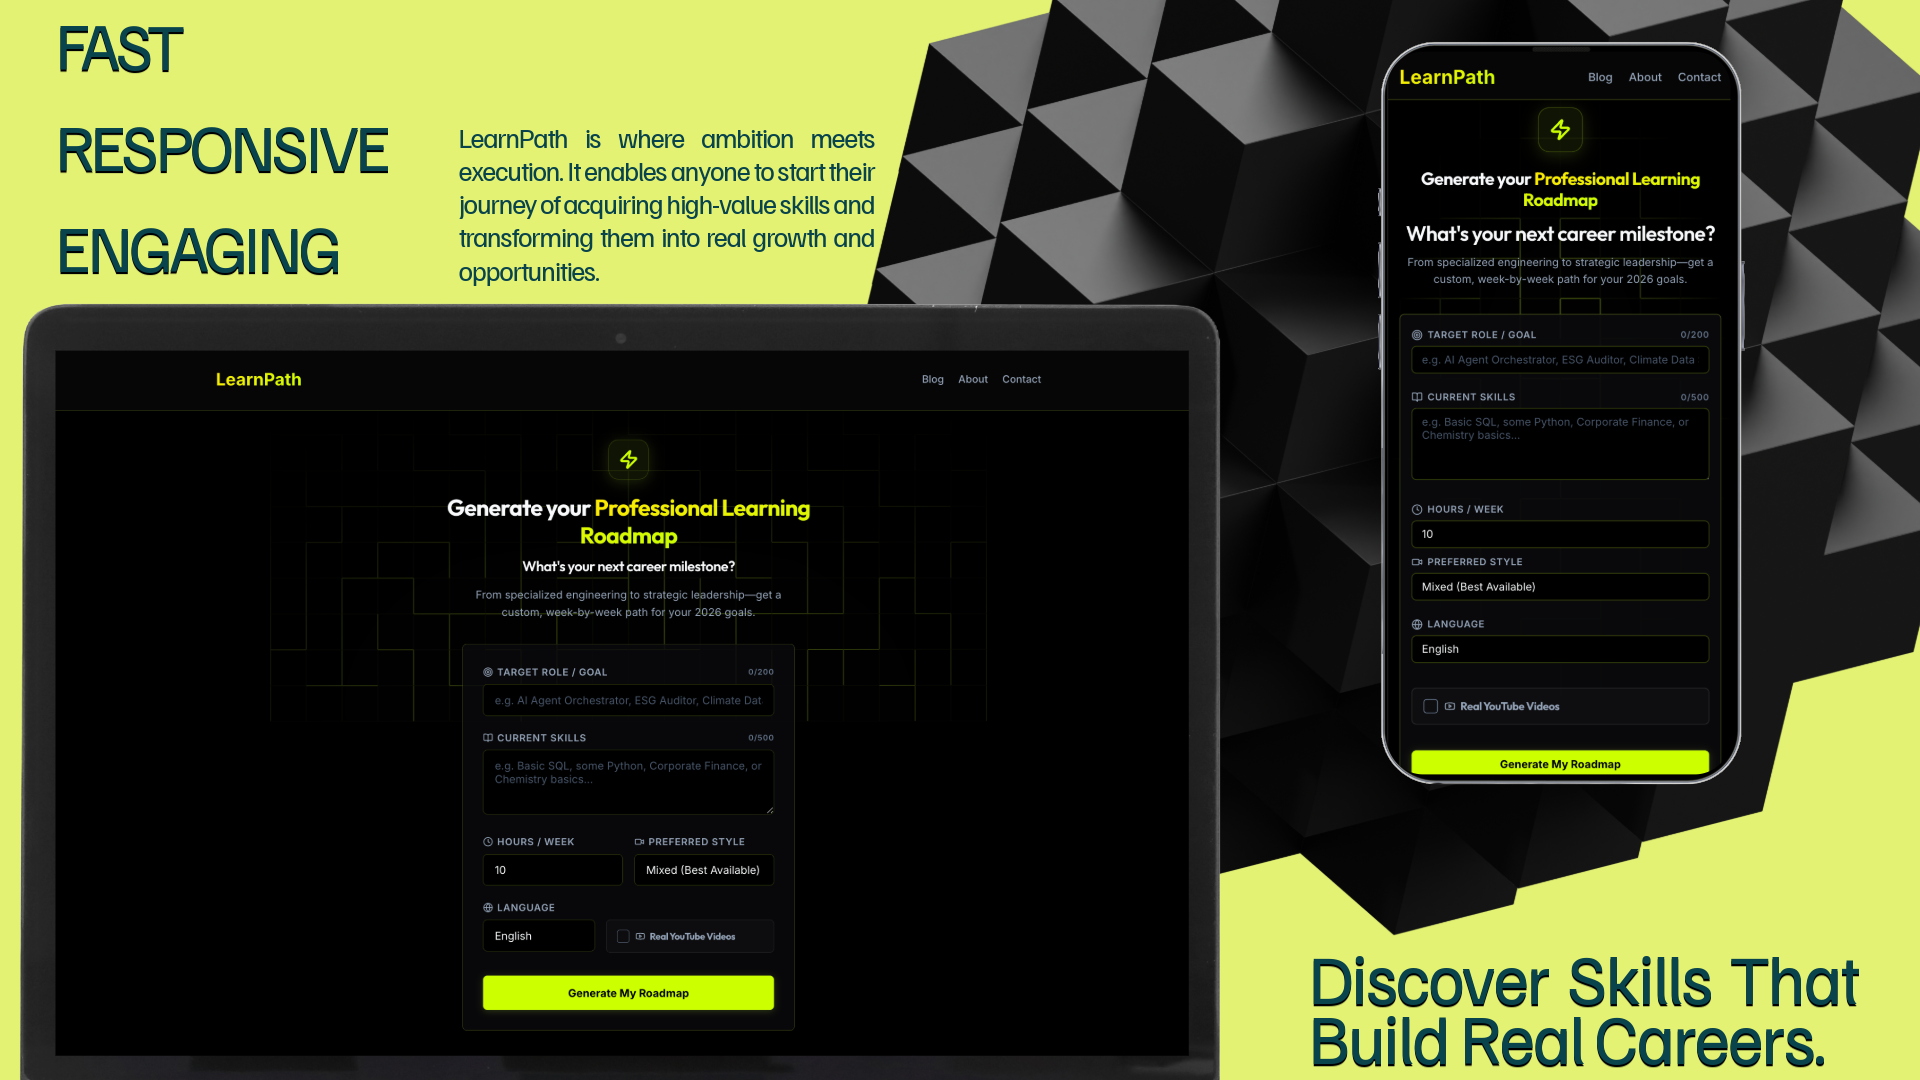
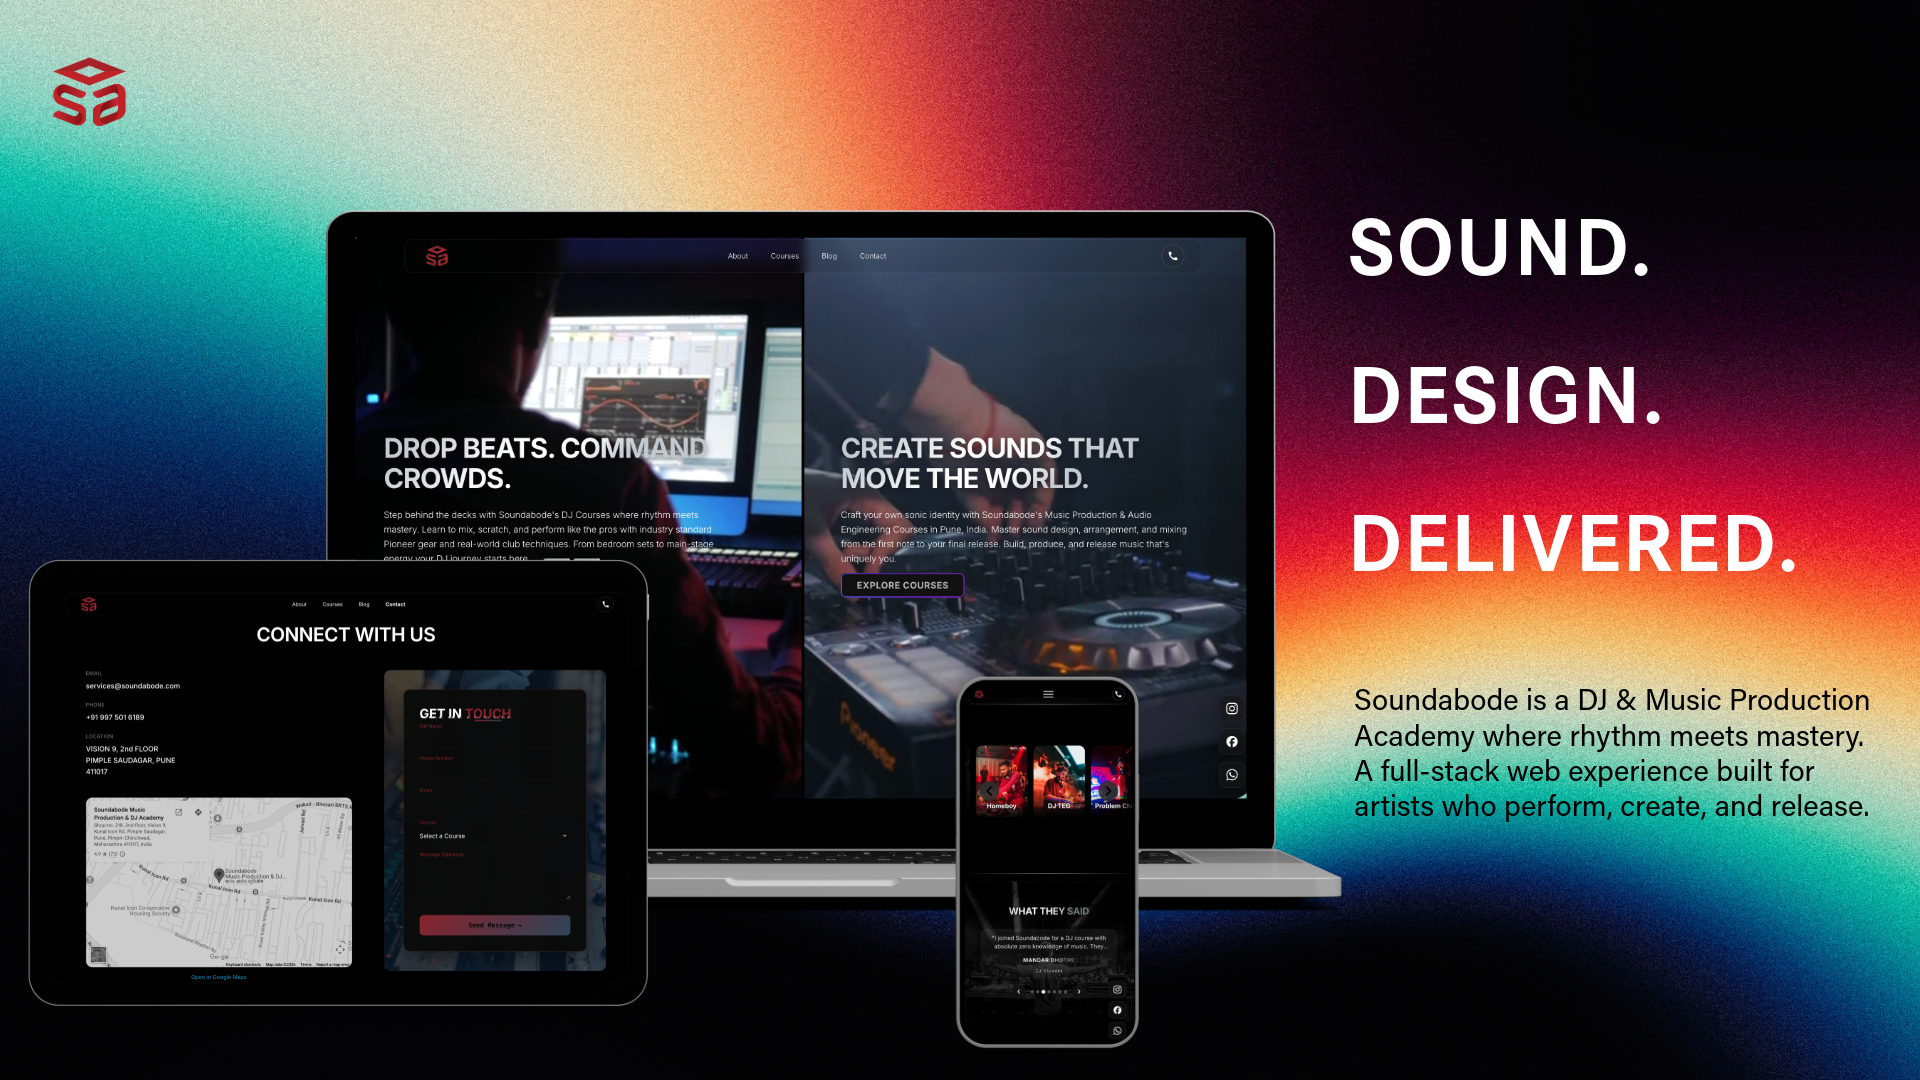
image updates

diff --git a/src/components/Capabilities.jsx b/src/components/Capabilities.jsx
@@ -23,7 +23,7 @@ const capabilities = [
     title: 'Web Apps',
     description:
       'I develop custom web applications using React, Node.js, APIs, and databases, building scalable dashboards, tools, and systems that streamline workflows and support business growth.',
-    image: '/images/capability-nocode.png',
+    image: '/images/capabilities-webapp.png',
   },
   {
     number: '04',
